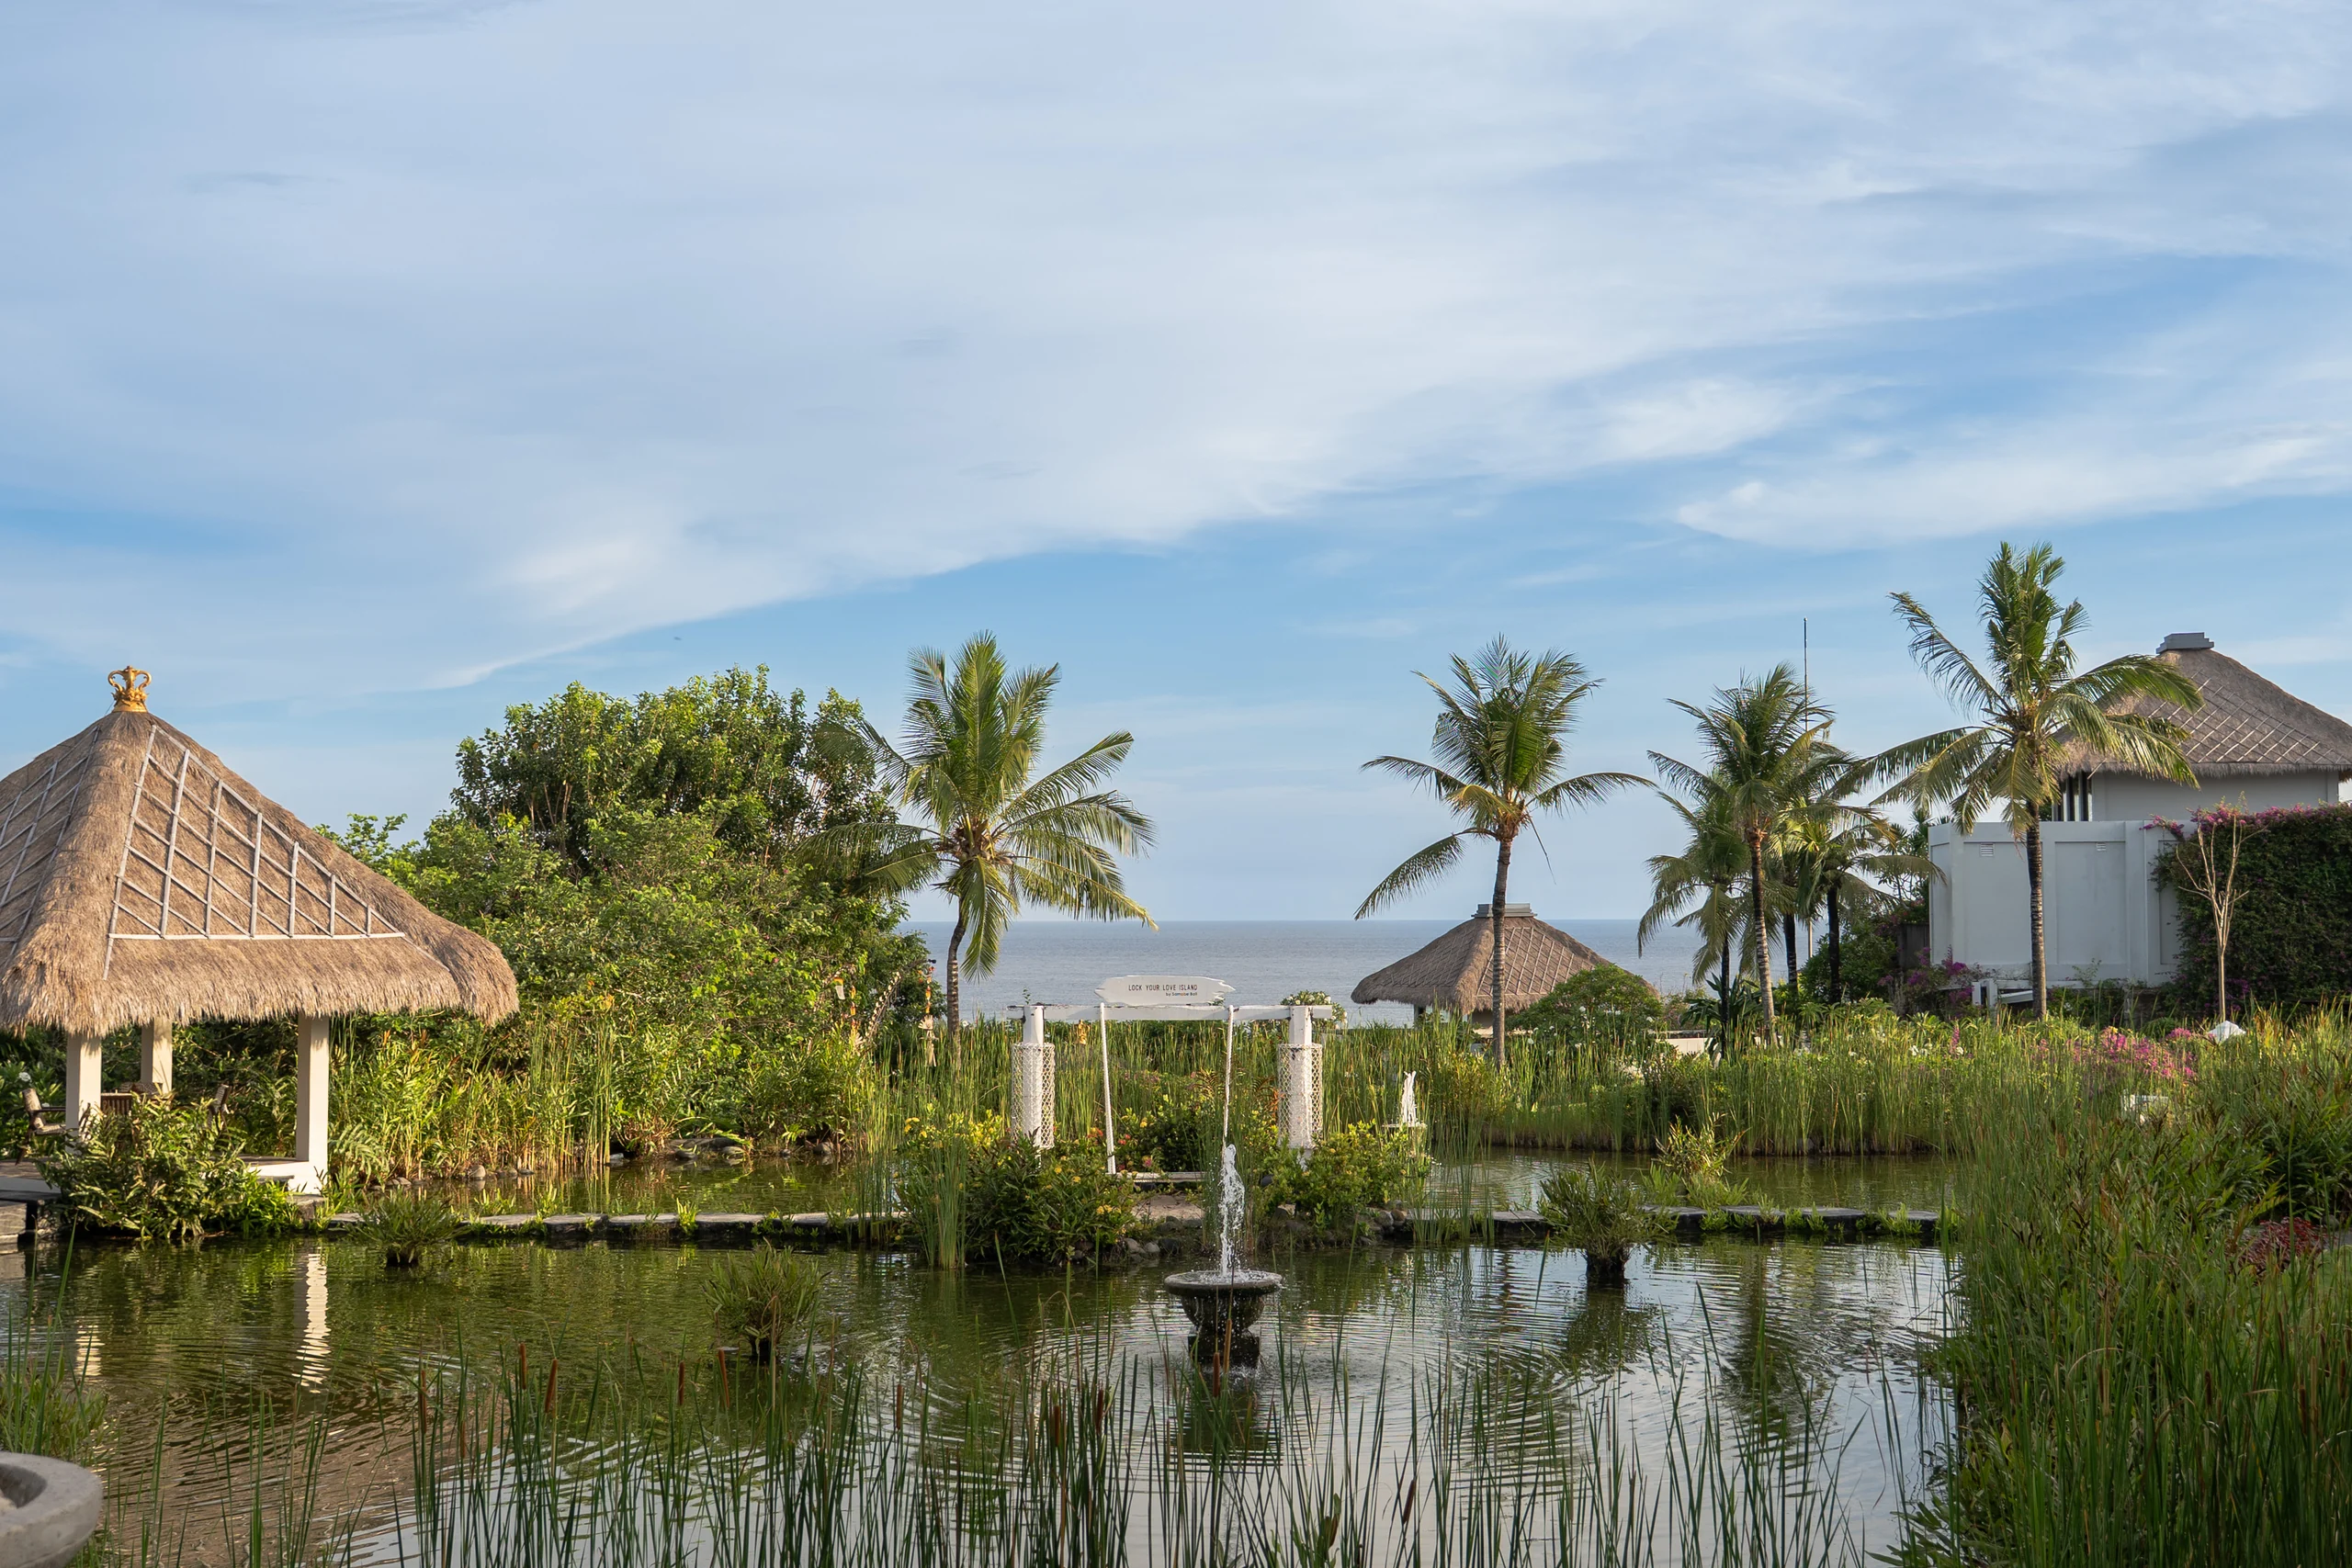
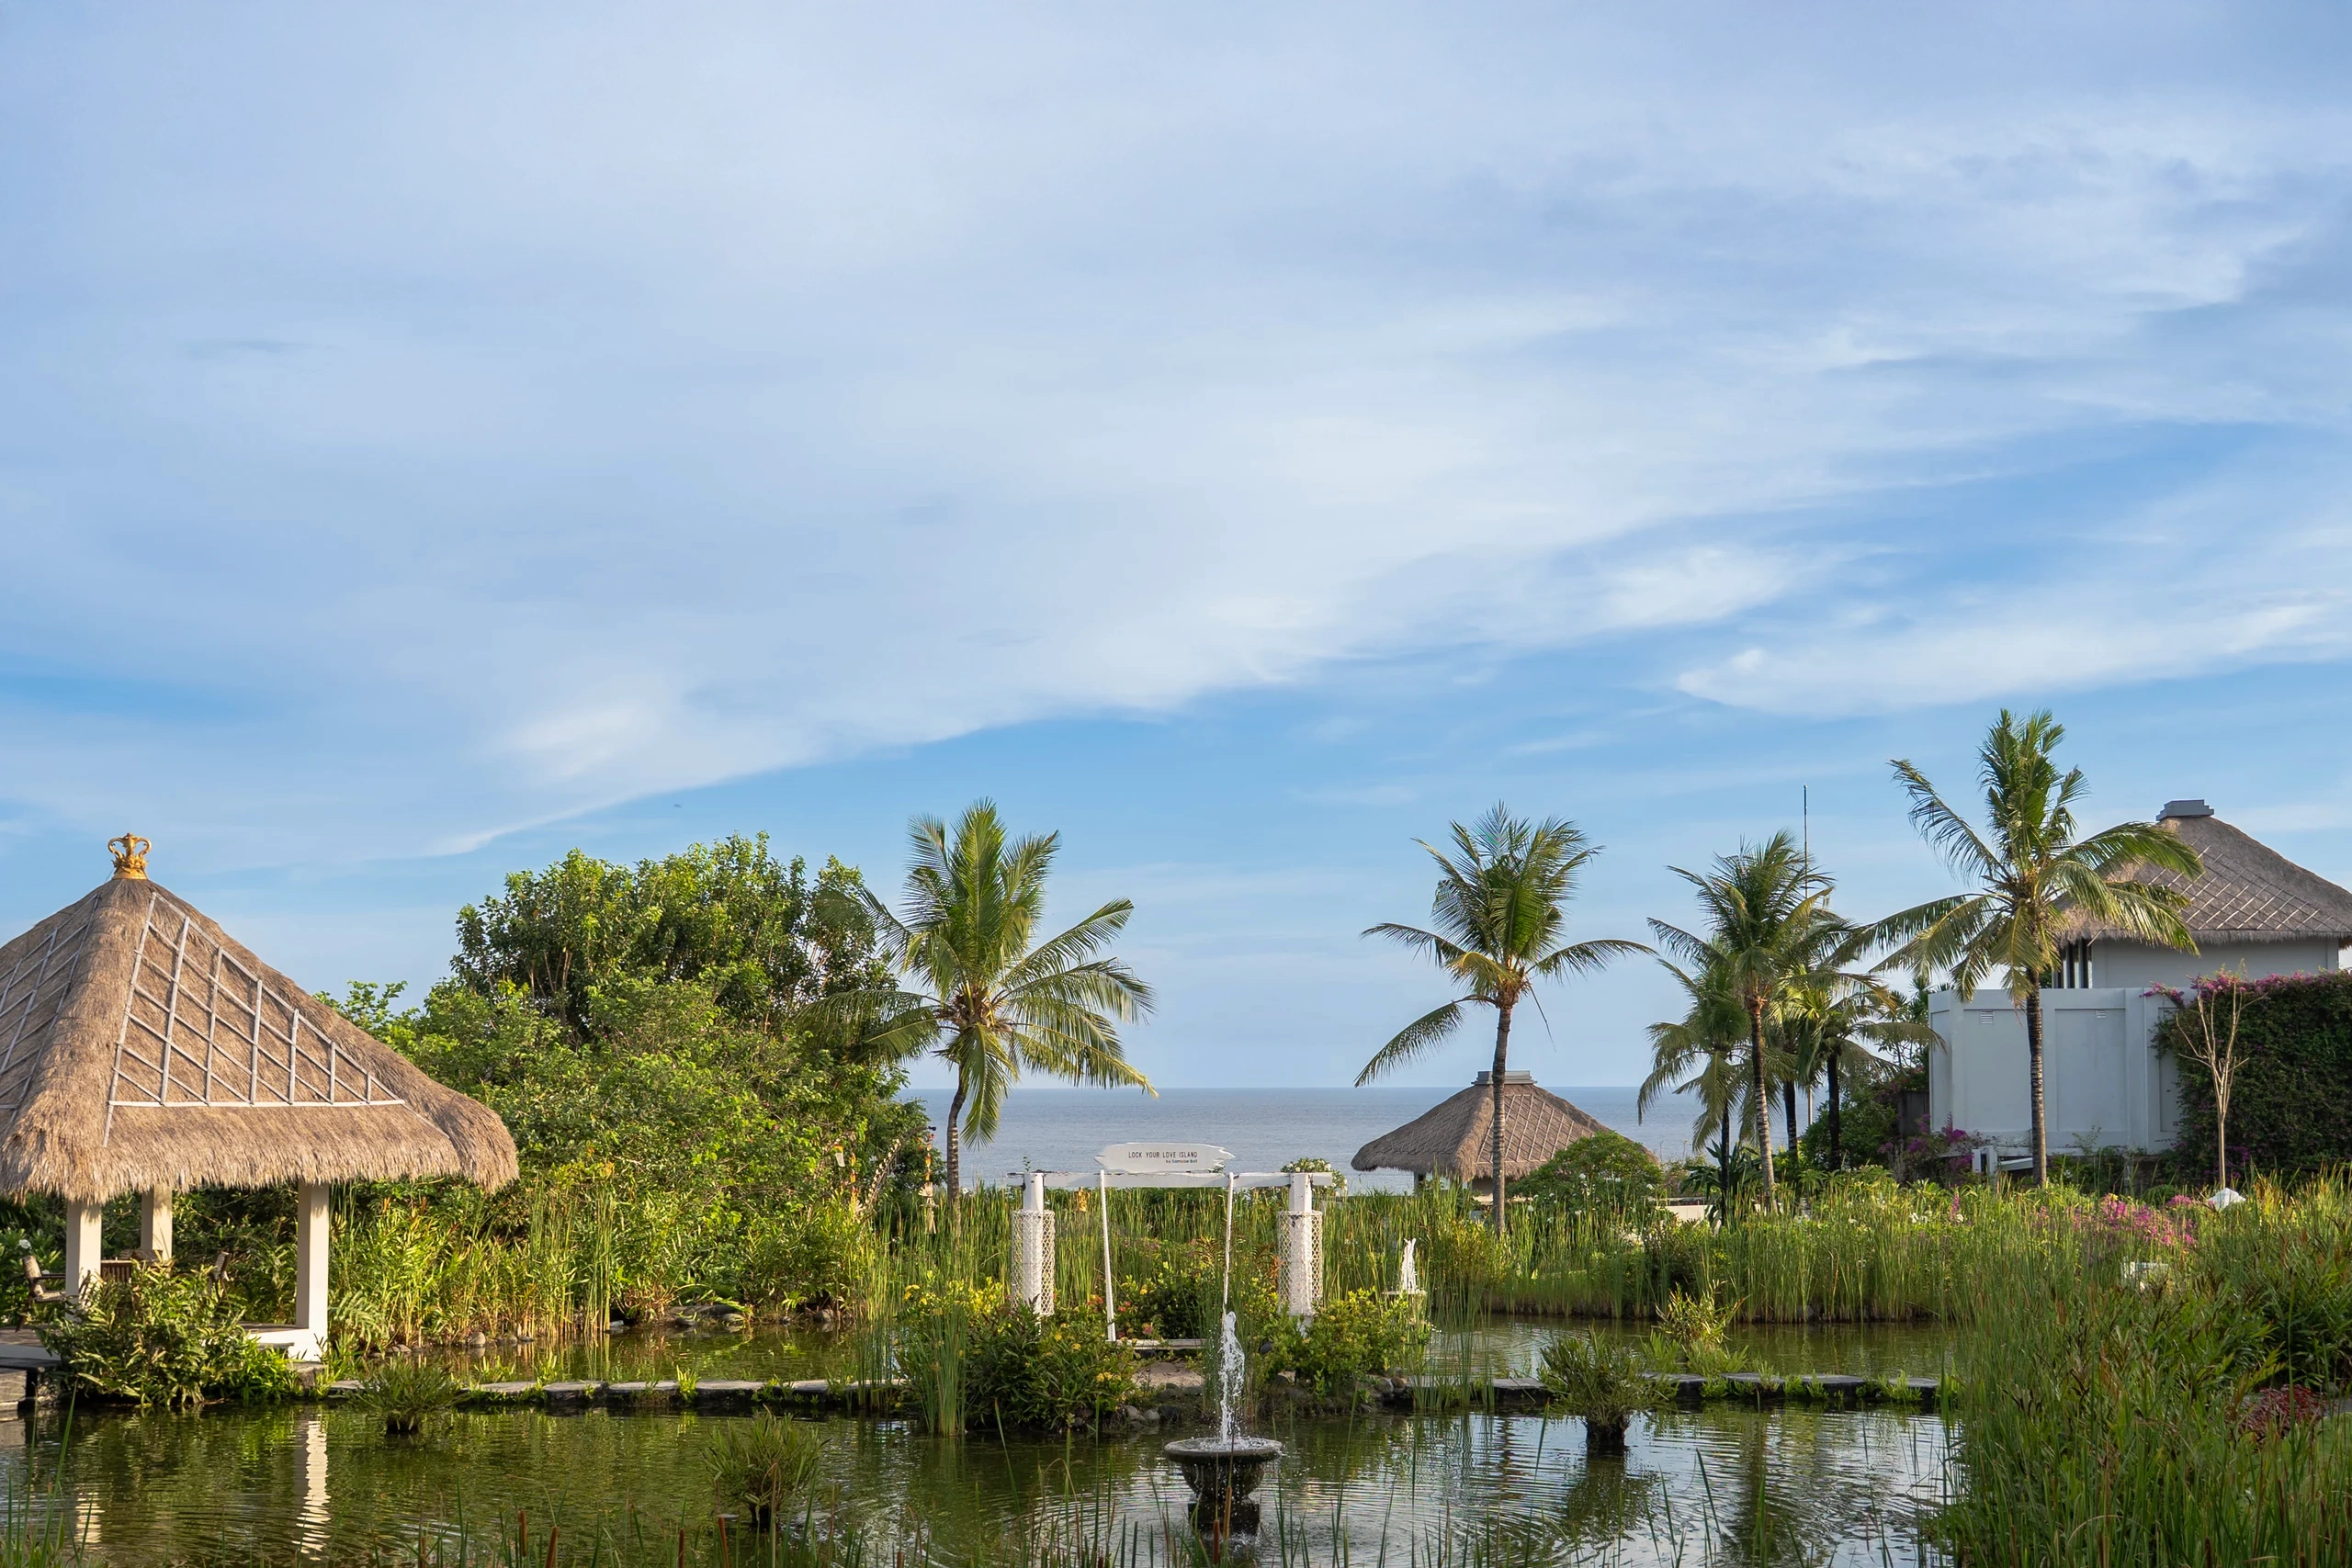
update v2

diff --git a/styles-v2.css b/styles-v2.css
@@ -41,7 +41,8 @@
 /* Garden / lily-pond photo anchored to the bottom, its sky edge
    masked so it dissolves into the cream page toward the pattern. */
 .bg-photo {
-  position: fixed;
+  padding-top: 30vh;
+  position: absolute;
   aspect-ratio: 1440 / 900;
   width: 100%;
   inset: auto 0 0 0;
@@ -55,6 +56,25 @@
   -webkit-mask-image: linear-gradient(to bottom, transparent 0%, #000 24%);
   mask-image: linear-gradient(to bottom, transparent 0%, #000 35%);
 
+}
+
+@media (min-width: 768px) {
+  body {
+    padding-bottom: 30vw;
+  }
+
+  .bg-photo {
+    height: auto;
+    aspect-ratio: 1440 / 854;
+    /* full image, no cropping */
+    min-height: 0;
+    max-height: none;
+    background-position: center bottom;
+    background-size: cover;
+    /* ratio matches → whole image shown */
+    -webkit-mask-image: linear-gradient(to bottom, transparent 0%, #000 10%);
+    mask-image: linear-gradient(to bottom, transparent 0%, #000 10%);
+  }
 }
 
 .pill-ico-2 {